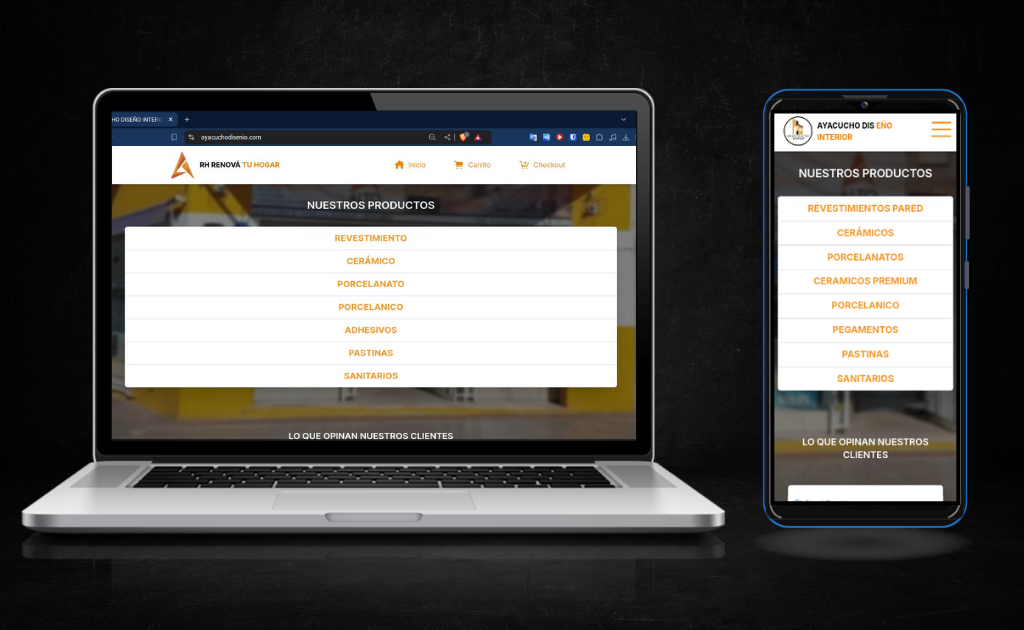
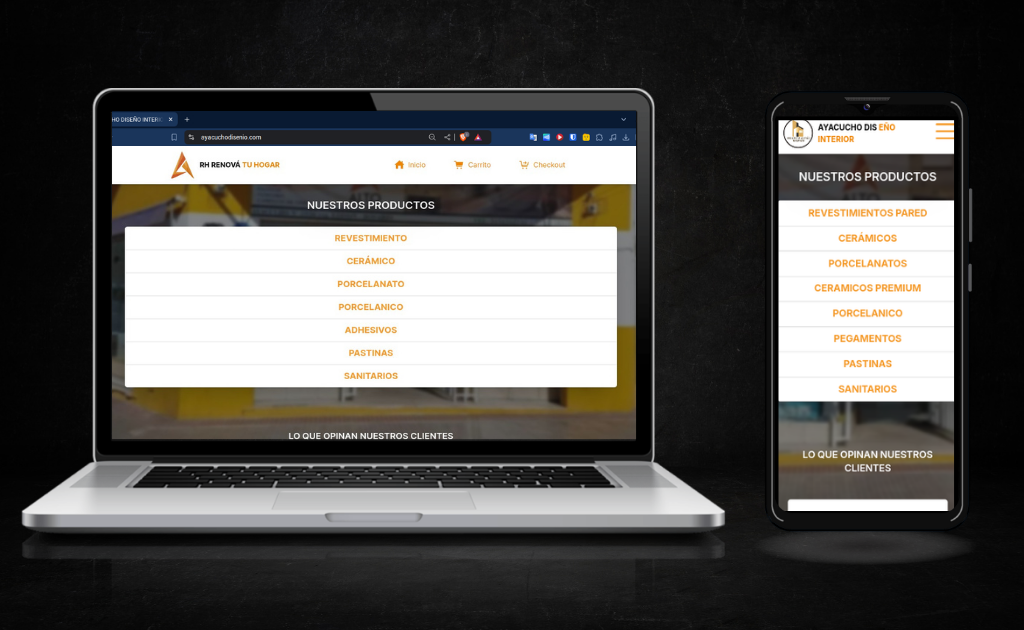
ayacucho image updated

Changed region(s): [[0.75, 0.1206, 0.9688, 0.8444]]

diff --git a/content/projects/ayacucho.md b/content/projects/ayacucho.md
@@ -4,7 +4,7 @@ title: "Ayacucho Diseño"
 date: 2024-08-05T05:09:10-03:00
 draft: false
 language: es
-featured_image: ../assets/images/projects/rhrenovatuhogar.jpeg
+featured_image: ../assets/images/projects/ayacuchodisenio.png
 summary: "E-Commerce para empresa dedicada a la venta de cerámicos, revestimientos, porcelanatos y productos similares."
 description: "Tienda online desarrollada para empresa vendedora de cerámicos, revestimientos, etc."
 authorimage: ../assets/images/global/author.webp
